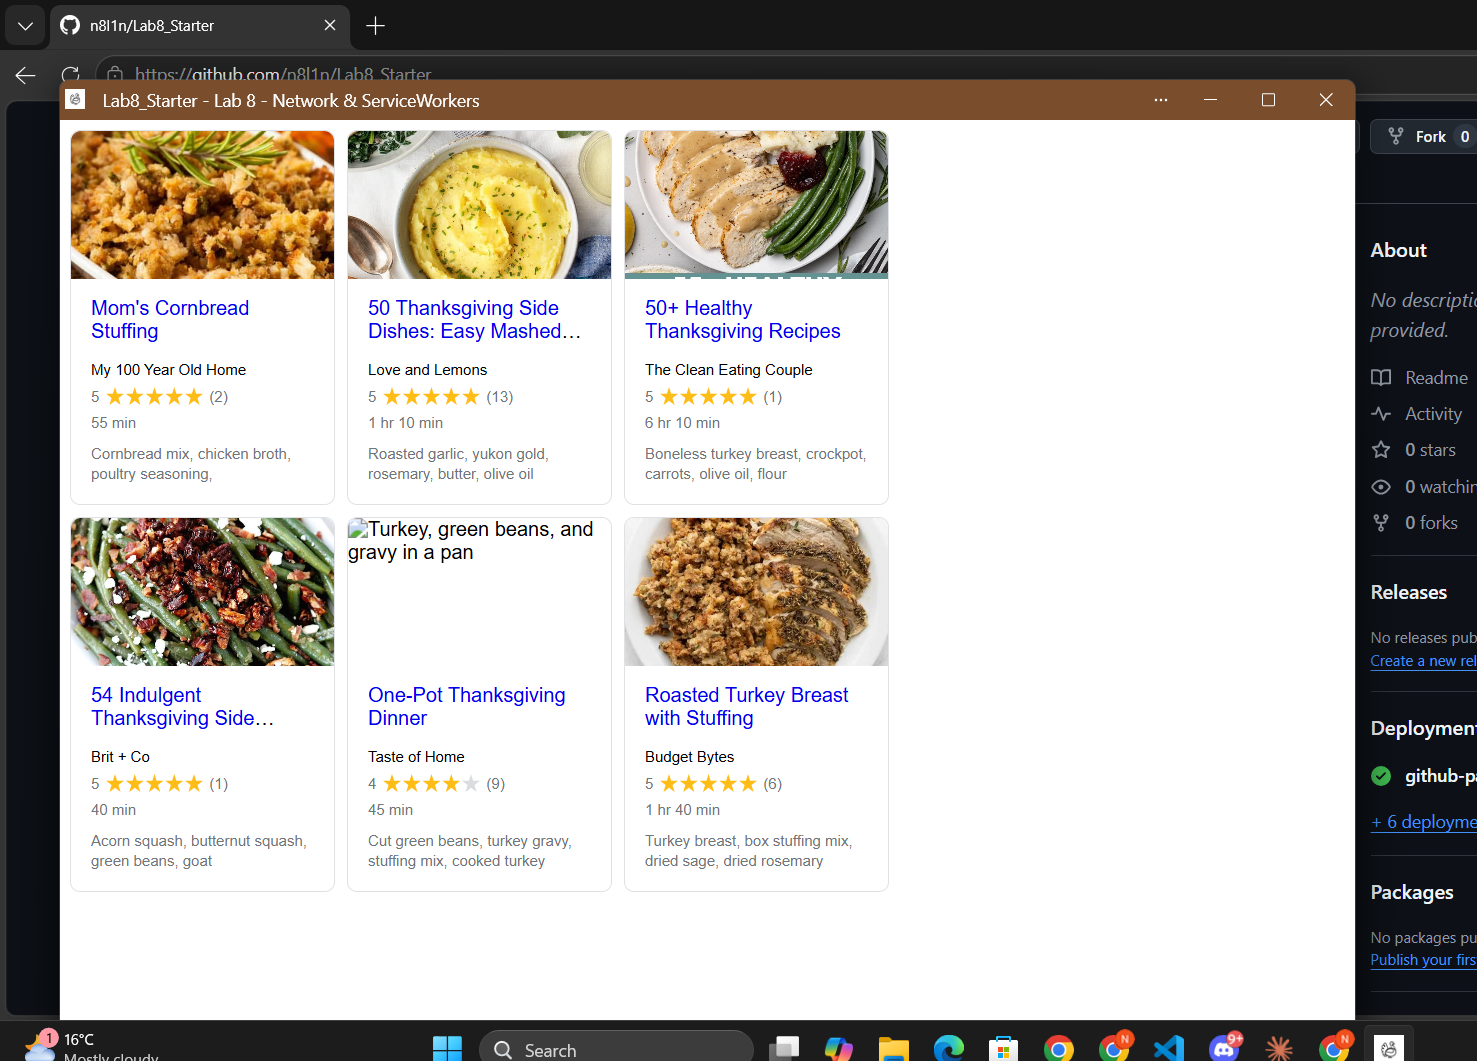
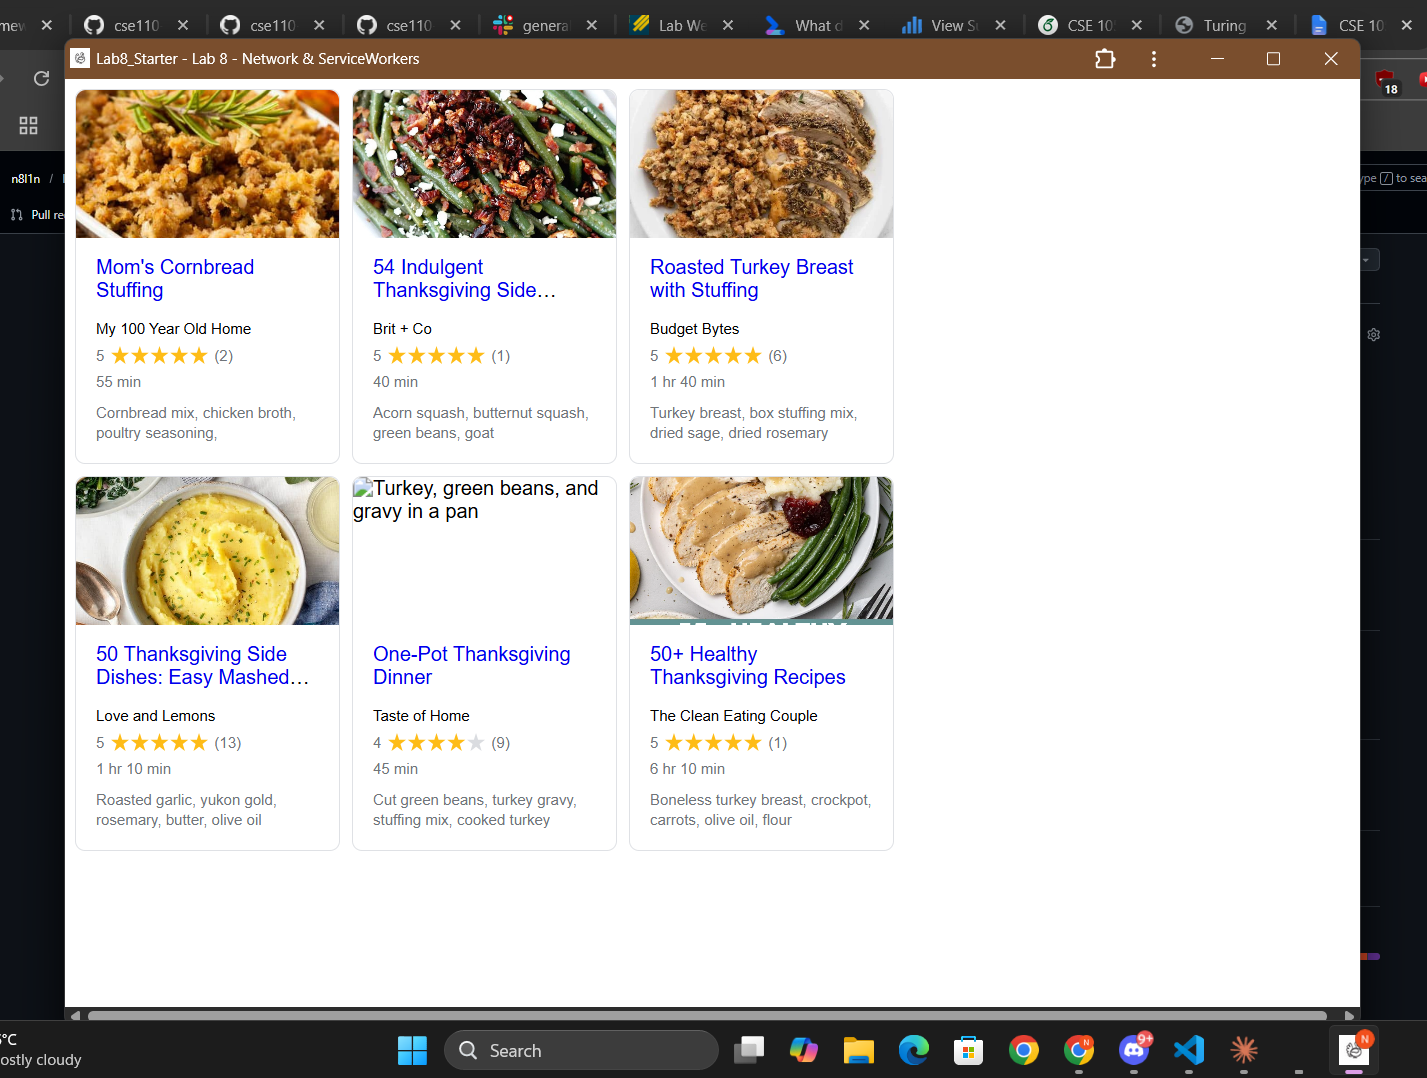
I found the problem, :') I forgot to clear my cookies and it was saving the old versions

diff --git a/README.md b/README.md
@@ -3,6 +3,6 @@ Nathan Lin
 
 https://n8l1n.github.io/Lab8_Starter/
 
-Graceful degradation is the design philosophy that allows a system to maintain functionality when components start to fail, or not all resources are available. It provides fallbacks for users so that the system does not just terminate if certain resources are not available. Service workers fulfill a similar purpose for when a user is experiencing poor network conditions while using a webapp. Since some of the functionality is maintained, the user is not immediately booted to a loading error screen.
+Graceful degradation is the design philosophy that allows a system to maintain functionality when components start to fail, or resources fail to load. It provides fallbacks for users so that the system does not just terminate if certain resources are not available. Service workers fulfill a similar purpose for when a user is experiencing poor network conditions while using a webapp. Since some of the functionality is maintained, the user is not immediately booted to a loading error screen.
 
  ![pwa.png](pwa.png)